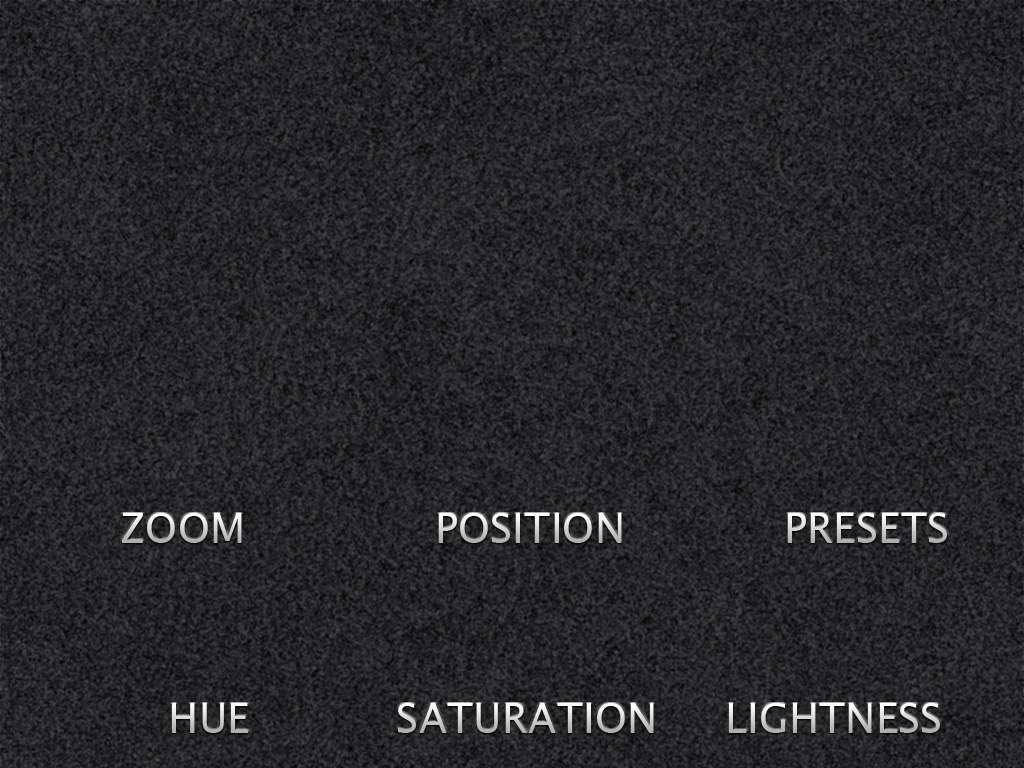
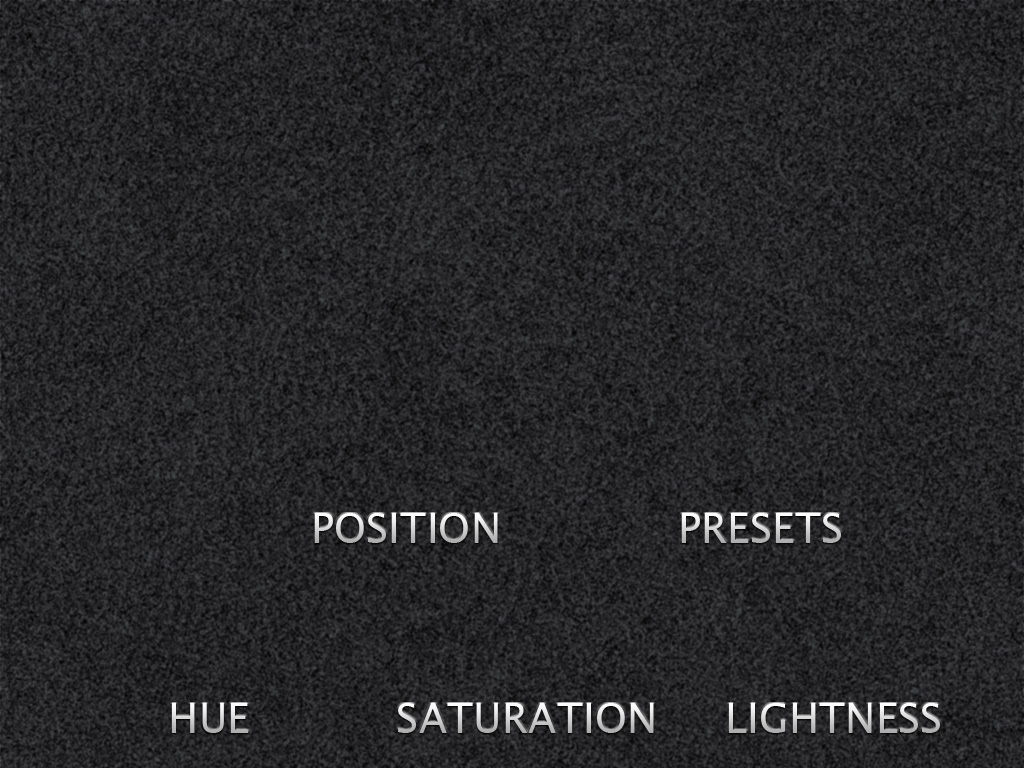
remove resize

Changed region(s): [[0.2812, 0.6562, 0.625, 0.7188], [0.6562, 0.6562, 0.9375, 0.7188], [0.125, 0.6562, 0.25, 0.7188]]

diff --git a/view/index.html b/view/index.html
@@ -38,42 +38,16 @@
   }
 
   #stick-slot{
-    left: 310px; top: 38px;
+    left: 180px; top: 38px;
     width: 429px;
     height: 429px;
     background: url(images/panel.png);
     position: absolute;
   }
-
-  #zoom-slot{
-    width: 122px;
-    height: 428px;
-    left: 120px; top: 38px;
-    background: url(images/zoom-bg.png);
-    position: absolute;
-  }
-
-  #zoom-slot>div{
-    margin: 50px 0;
-    height: 350px;
-    position:relative;
-  }
-
-
-  #zoom-slot .ui-slider-handle{
-    display:block;
-    position: absolute;
-    left: 50%;
-    margin-left: -30.5px;
-    width: 61px;
-    height: 106px;
-    margin-bottom: -53px;
-    background: url(images/zoom-handle.png);
-  }
   
   #presets{
     position:absolute;
-    left: 801px;
+    left: 700px;
     top: 38px;
     width: 123px;
     height: 429px;
@@ -151,9 +125,6 @@
 
 </head>
 <body>
-  <div id="zoom-slot">
-    <div></div>
-  </div>
   
   <div id="stick-slot">
     <div id="stick">
@@ -184,8 +155,8 @@
     
     var $stick = $('#stick'), $ball = $('#ball'), $hsl = $('#hsl'),
       RADIUS = 160, ORIGIN = {left: 214, top: 214}, BALLSIZE = 164,
-      SOCKET_TARGET = 'ws://echo.websocket.org',
-      //SOCKET_TARGET = 'ws://localhost:9999/',
+      //SOCKET_TARGET = 'ws://echo.websocket.org',
+      SOCKET_TARGET = 'ws://localhost:9999/',
       HORIZONTAL_STEPSIZE = RADIUS/2, VERTICAL_STEPSIZE = RADIUS / 2;
 
     Number.prototype.to_deg = function(){
@@ -289,23 +260,23 @@
         });
       }
     });
-
-    $('#zoom-slot>div').slider({
-      orientation: "vertical",
-      min: 1,
-      max: 3,
-      value: 2,
-      slide: send_zoom
-    });
   
     $('.button1').click(preset1);
     $('.button2').click(preset2);
     $('.button3').click(preset3);
     
-    $hsl.find('.h>div, .s>div, .l>div').slider({
+    $hsl.find('.h>div, .l>div').slider({
       orientation: "horizontal",
       min: -50,
       max: 50,
+      value: 0,
+      slide: send_hsl 
+    });
+
+    $hsl.find('.s>div').slider({
+      orientation: "horizontal",
+      min: 0,
+      max: 100,
       value: 0,
       slide: send_hsl 
     });
